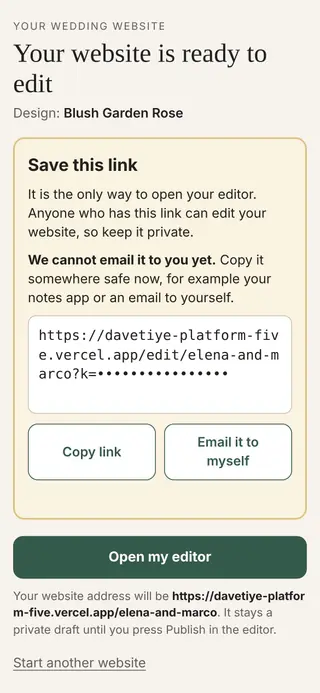
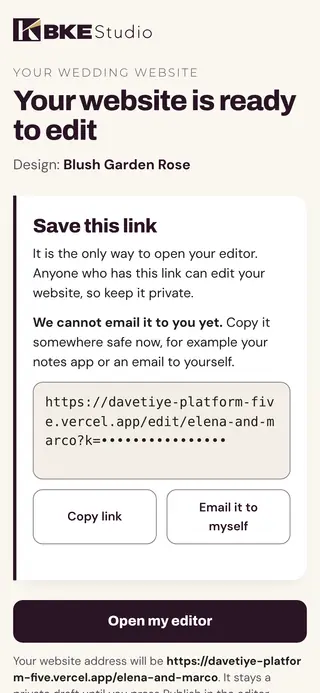
G080: marketing-assets panel görsellerini yerel paneldan çekiyor (--panel); start/editLink yeni /start görünümüyle
- scripts/marketing-assets.ts: panel ekranları artık G059 JPG'lerinden değil, bu checkout'un build'inin yerel
  next start'ından (tohumlanmış 03 demo + kurgusal alıcı); Guests toplamları DEMO_REPLY_TOTALS'tan farklıysa durur;
  --designs / --panel kısmi koşu; --check aynı
- Yalnız anlamlı değişenler işlendi: start ve editLink (BKE /start); diğer 6 panel görseli aynı kaldı
- assets.json: yalnız note satırı (ölçüler aynı)

Claude-Session: https://claude.ai/code/session_01DggDrVhqkPM3r57J4JpXEN

diff --git a/platform/scripts/marketing-assets.ts b/platform/scripts/marketing-assets.ts
@@ -1,21 +1,37 @@
 // Marketing site images and videos from REAL product captures (G061, docs/14 §9.6, §12.4). No drawing, no generated
-// screens: every image is a resize of a real theme / panel screenshot (collections/<NN>/package/shots, G059 capture,
-// 390 px at DPR 3, fictional demo content) and every video is a cut of the real opening recording (opening.webm).
+// screens: every image is a resize of a real theme / panel screenshot (390 × 844 at DPR 3, fictional demo content) and
+// every video is a cut of the real opening recording (opening.webm).
 //
-//   node scripts/marketing-assets.ts            # writes public/marketing/{designs,panel}/ + lib/marketing/assets.json
-//   node scripts/marketing-assets.ts --check    # only verifies that assets.json matches the files (exit 1 if not)
+//   node scripts/marketing-assets.ts               # designs + panel; writes public/marketing/{designs,panel}/ + lib/marketing/assets.json
+//   node scripts/marketing-assets.ts --designs     # only the design screens and opening videos
+//   NODE_PATH=/opt/node22/lib/node_modules node scripts/marketing-assets.ts --panel [--public-url <url>]
+//                                                  # only the panel screens (needs `npm run build` + Playwright)
+//   node scripts/marketing-assets.ts --check       # only verifies that assets.json matches the files (exit 1 if not)
 //
-// Needs sharp (dependency) and ffmpeg on PATH (videos). Outputs are deterministic for the same inputs; re-run after a
-// new capture (e.g. panel screens after G060). GPT scene images (docs/14 §12, public/marketing/gpt/) are composed by
-// a later step once they exist — this script does not touch them.
+// Sources:
+//   - designs: the G059 capture of each live design, collections/<NN>/package/shots/*.jpg + opening.webm.
+//   - panel (G080): captured from the CURRENT code — a local `next start` of this checkout's build on a temporary data
+//     folder (local adapter; nothing deployed, nothing sent to the live site). The design-03 demo is seeded as a
+//     published site (Clara & Julian, sample photos, a "Meal choice" question, five fictional replies); a fictional buyer
+//     (Elena & Marco) starts a site on /start. Screens: /start form, the "Save this link" screen (key masked), panel Home,
+//     photo crop, preview, Share (QR blurred: it would point at a site that only exists in this run), Guests (totals must
+//     equal facts.ts DEMO_REPLY_TOTALS, else the run fails), RSVP questions. G061–G066 took the panel screens from the
+//     G059 JPGs, which show the panel of their day: a full run brought back an old panel (G066-B note).
+//   PLATFORM_PUBLIC_URL = --public-url (default: the live vercel.app address, as in G059) so addresses read like real ones.
+//
+// Needs sharp (dependency) and ffmpeg on PATH (videos). Design outputs are deterministic for the same inputs; panel
+// screens show the day they are taken ("Replies close in N days", the preview's countdown). GPT scene images
+// (docs/14 §12, public/marketing/gpt/) are composed by a later step once they exist — this script does not touch them.
 
-import { execFileSync } from 'node:child_process';
-import { existsSync, mkdirSync, readFileSync, statSync, writeFileSync } from 'node:fs';
+import { execFileSync, spawnSync } from 'node:child_process';
+import { existsSync, mkdirSync, mkdtempSync, readFileSync, rmSync, statSync, writeFileSync } from 'node:fs';
 import { createRequire } from 'node:module';
+import os from 'node:os';
 import path from 'node:path';
 import { fileURLToPath } from 'node:url';
 import { MARKETING } from '../lib/marketing/config.ts';
-import { DESIGN_COPY, PANEL_COLLECTION, PANEL_SOURCES, SCREEN_SOURCES } from '../lib/marketing/designs.ts';
+import { DESIGN_COPY, PANEL_SOURCES, SCREEN_SOURCES, type PanelKey } from '../lib/marketing/designs.ts';
+import { DEMO_REPLY_TOTALS } from '../lib/marketing/facts.ts';
 
 const ROOT = path.resolve(path.dirname(fileURLToPath(import.meta.url)), '..');
 const REPO = path.resolve(ROOT, '..');
@@ -29,6 +45,9 @@ const WEBP_QUALITY = 74;
 /** Opening clip: from the recording's lead-in (opening.json) for CLIP_SECONDS — envelope closed → home page. */
 const CLIP_SECONDS = 10;
 const VIDEO_MAX_BYTES = 1_500_000;
+
+export const MANIFEST_NOTE =
+  'Generated by scripts/marketing-assets.ts from real captures (designs: collections/<NN>/package/shots; panel: a local run of the current panel). Do not edit by hand.';
 
 export interface ScreenAsset {
   /** Intrinsic size of the largest file. */
@@ -53,7 +72,8 @@ export interface AssetManifest {
 
 const rel = (abs: string) => '/' + path.relative(PUBLIC, abs).split(path.sep).join('/');
 
-async function screen(sharp: any, src: string, outDir: string, key: string): Promise<ScreenAsset> {
+/** `src`: an image file or the bytes of a screenshot. */
+async function screen(sharp: any, src: string | Buffer, outDir: string, key: string): Promise<ScreenAsset> {
   mkdirSync(outDir, { recursive: true });
   const meta = await sharp(src).metadata();
   const files: Record<string, string> = {};
@@ -66,7 +86,7 @@ async function screen(sharp: any, src: string, outDir: string, key: string): Pro
     width = info.width;
     height = info.height;
   }
-  if (!meta.width || !meta.height) throw new Error(`no size: ${src}`);
+  if (!meta.width || !meta.height) throw new Error(`no size: ${typeof src === 'string' ? src : `${key} capture`}`);
   return { width, height, files };
 }
 
@@ -127,22 +147,8 @@ export function checkManifest(manifest: AssetManifest, publicDir = PUBLIC): stri
   return problems;
 }
 
-async function main(): Promise<void> {
-  if (process.argv.includes('--check')) {
-    const problems = checkManifest(JSON.parse(readFileSync(MANIFEST, 'utf8')));
-    if (problems.length) {
-      console.error(problems.join('\n'));
-      process.exit(1);
-    }
-    console.log('marketing assets: ok');
-    return;
-  }
-  const sharp = require('sharp');
-  const manifest: AssetManifest = {
-    note: 'Generated by scripts/marketing-assets.ts from real captures (collections/<NN>/package/shots). Do not edit by hand.',
-    designs: {},
-    panel: {},
-  };
+async function designAssets(sharp: any): Promise<AssetManifest['designs']> {
+  const designs: AssetManifest['designs'] = {};
   for (const d of MARKETING.designs) {
     const copy = DESIGN_COPY[d.id];
     if (!copy) continue; // 'coming' designs without copy yet
@@ -156,13 +162,229 @@ async function main(): Promise<void> {
     for (const [key, shot] of Object.entries(SCREEN_SOURCES)) {
       screens[key] = await screen(sharp, path.join(shots, `${shot}.jpg`), outDir, key);
     }
-    manifest.designs[d.id] = { screens, opening: opening(shots, outDir) };
-    console.log(`${d.id}: ${Object.keys(screens).length} screens, opening ${manifest.designs[d.id].opening?.bytes ?? 0} bytes`);
+    designs[d.id] = { screens, opening: opening(shots, outDir) };
+    console.log(`${d.id}: ${Object.keys(screens).length} screens, opening ${designs[d.id].opening?.bytes ?? 0} bytes`);
   }
-  const panelShots = path.join(REPO, 'collections', PANEL_COLLECTION, 'package/shots');
-  for (const [key, shot] of Object.entries(PANEL_SOURCES)) {
-    manifest.panel[key] = await screen(sharp, path.join(panelShots, `${shot}.jpg`), path.join(PUBLIC, 'marketing/panel'), key);
+  return designs;
+}
+
+// ---------------------------------------------------------------------------------------------------- panel (G080)
+
+/** The design whose demo and /start the panel screens show (its demo = the fictional Clara & Julian). */
+export const PANEL_THEME = 'blush-garden-rose';
+/** The fictional buyer of the /start → panel screens. */
+const BUYER = { order: '5550012345', email: 'elena.demo@example.test', names: ['Elena', 'Marco'] as const };
+/** Fictional guest replies of the seeded demo (totals 9 coming · 1 not coming · 5 replies = DEMO_REPLY_TOTALS). The
+ *  last one arrives after the couple's last look (the Guests view then shows "1 new reply"). */
+const REPLIES = [
+  { name: 'Olivia Bennett', attending: 'yes', guests: 2, message: 'We would not miss it!', answers: { meal: 'Fish' } },
+  { name: 'Marcus Reed', attending: 'yes', guests: 1, message: '', answers: { meal: 'Vegetarian' } },
+  { name: 'Hannah Clarke', attending: 'no', guests: 0, message: 'So sorry to miss it. Sending love!', answers: {} },
+  { name: 'The Alvarez Family', attending: 'yes', guests: 4, message: 'Counting the days.', answers: { meal: 'Chicken' } },
+  { name: 'Sofia Martin', attending: 'yes', guests: 2, message: '', answers: { meal: 'Fish' } },
+];
+
+function arg(name: string, def: string): string {
+  const i = process.argv.indexOf(`--${name}`);
+  if (i >= 0 && process.argv[i + 1]) return process.argv[i + 1];
+  const eq = process.argv.find((a) => a.startsWith(`--${name}=`));
+  return eq ? eq.slice(name.length + 3) : def;
+}
+
+async function freePort(): Promise<number> {
+  const net = await import('node:net');
+  return new Promise((resolve, reject) => {
+    const s = net.createServer();
+    s.once('error', reject);
+    s.listen(0, '127.0.0.1', () => {
+      const p = (s.address() as { port: number }).port;
+      s.close(() => resolve(p));
+    });
+  });
+}
+
+/** Screens of the current panel, taken from a local `next start` of this checkout's build. */
+async function panelAssets(sharp: any): Promise<AssetManifest['panel']> {
+  if (!existsSync(path.join(ROOT, '.next', 'BUILD_ID'))) throw new Error('panel screens need a production build: run `npm run build` first');
+  const { loadChromium, startNext, waitForServer } = await import('./lib/browser.ts');
+  const { loadThemeEnv, demoSlug } = await import('./lib/theme-env.ts');
+  const publicUrl = arg('public-url', 'https://davetiye-platform-five.vercel.app').replace(/\/+$/, '');
+  const env = loadThemeEnv({ theme: PANEL_THEME });
+  const demo = structuredClone(env.demo);
+  demo.rsvp = { ...demo.rsvp, questions: [{ id: 'meal', label: 'Meal choice', type: 'choice', options: ['Chicken', 'Fish', 'Vegetarian'] }] };
+  const slug = demoSlug(demo);
+  const photo = env.photoFiles.hero_portrait ?? Object.values(env.photoFiles)[0];
+  if (!photo) throw new Error(`no sample photo for ${PANEL_THEME}`);
+
+  const dataDir = mkdtempSync(path.join(os.tmpdir(), 'marketing-panel-'));
+  const out: AssetManifest['panel'] = {};
+  let server: { base: string; stop: () => void } | null = null;
+  let browser: any = null;
+  try {
+    const contentFile = path.join(dataDir, 'demo-content.json');
+    writeFileSync(contentFile, JSON.stringify(demo));
+    const seed = spawnSync(
+      process.execPath,
+      [path.join(ROOT, 'scripts/seed.ts'), '--theme', PANEL_THEME, '--slug', slug, '--content', contentFile, ...(env.photosDir ? ['--photos', env.photosDir] : ['--no-photos'])],
+      { cwd: ROOT, env: { ...process.env, PLATFORM_DATA_DIR: dataDir, DATA_ADAPTER: 'local', PLATFORM_PUBLIC_URL: publicUrl }, encoding: 'utf8' },
+    );
+    if (seed.status !== 0) throw new Error(`seed failed:\n${seed.stdout}\n${seed.stderr}`);
+    const demoKey: string = JSON.parse(readFileSync(path.join(dataDir, 'seed-keys.json'), 'utf8')).editKey;
+
+    const port = Number(process.env.PORT) || (await freePort());
+    // No VERCEL_ENV / THEME_APPROVAL: the panel theme is approved anyway; a local run is never "production".
+    const srv = startNext({ port, dataDir, env: { DATA_ADAPTER: 'local', PLATFORM_PUBLIC_URL: publicUrl, VERCEL_ENV: '', THEME_APPROVAL: '' } });
+    server = srv;
+    await waitForServer(`${srv.base}/signin`, 40_000, srv as any);
+    const base = srv.base;
+
+    // fictional guest replies through the public RSVP API (like a guest's phone); the couple last looked before the fifth
+    let seenAt = '';
+    for (const [i, r] of REPLIES.entries()) {
+      if (i === REPLIES.length - 1) {
+        seenAt = new Date().toISOString();
+        await new Promise((res) => setTimeout(res, 60));
+      }
+      const res = await fetch(`${base}/api/rsvp/${slug}`, {
+        method: 'POST',
+        headers: { 'content-type': 'application/json', 'x-forwarded-for': `198.51.100.${i + 10}` },
+        body: JSON.stringify({ ...r, email: '', website: '' }),
+      });
+      if (res.status !== 200) throw new Error(`reply "${r.name}": ${res.status} ${await res.text()}`);
+    }
+
+    browser = await loadChromium().launch({ args: ['--disable-dev-shm-usage'] });
+    const device = { viewport: { width: 390, height: 844 }, deviceScaleFactor: 3, isMobile: true, hasTouch: true };
+    const pause = (page: any, ms: number) => page.waitForTimeout(ms);
+    const take = async (page: any, key: PanelKey) => {
+      await page.evaluate(() => document.fonts.ready);
+      await pause(page, 400);
+      out[key] = await screen(sharp, await page.screenshot({ type: 'png' }), path.join(PUBLIC, 'marketing/panel'), key);
+      console.log(`panel: ${key}`);
+    };
+    const scrollTo = (page: any, sel: string, block: 'start' | 'end', offset: number) =>
+      page.evaluate(
+        ({ s, b, o }: { s: string; b: string; o: number }) => {
+          const r = document.querySelector(s)!.getBoundingClientRect();
+          const top = b === 'end' ? r.bottom + scrollY - innerHeight + o : r.top + scrollY - o;
+          window.scrollTo({ top: Math.max(0, top), behavior: 'instant' });
+        },
+        { s: sel, b: block, o: offset },
+      );
+
+    // ---- buyer: /start → "Save this link" → panel Home → crop → preview
+    {
+      const ctx = await browser.newContext(device);
+      ctx.setDefaultTimeout(15_000);
+      const page = await ctx.newPage();
+      await page.goto(`${base}/start?theme=${PANEL_THEME}`, { waitUntil: 'networkidle' });
+      await page.frameLocator('iframe').locator('body').waitFor();
+      await page.fill('#start-order', BUYER.order);
+      await page.fill('#start-email', BUYER.email);
+      await page.fill('#start-name1', BUYER.names[0]);
+      if (await page.locator('#start-name2').count()) await page.fill('#start-name2', BUYER.names[1]);
+      await page.waitForSelector('[data-slug-available]');
+      await page.evaluate(() => (document.activeElement as HTMLElement | null)?.blur()); // no focus ring in the picture
+      await scrollTo(page, 'form button[type="submit"]', 'end', 96); // the filled form down to "Create my website"
+      await take(page, 'start');
+      await page.click('form button[type="submit"]');
+      await page.waitForSelector('[data-edit-link]');
+      const editUrl: string = await page.inputValue('[data-edit-link]');
+      if (!editUrl.startsWith(`${publicUrl}/edit/`)) throw new Error(`edit link does not use the public URL: ${editUrl.replace(/k=.*/, 'k=…')}`);
+      await page.evaluate(() => {
+        const el = document.querySelector('[data-edit-link]') as HTMLTextAreaElement;
+        el.value = el.value.replace(/k=[A-Za-z0-9_-]+/, 'k=••••••••••••••••'); // the private key, masked in the picture only
+        (document.activeElement as HTMLElement | null)?.blur();
+        window.scrollTo({ top: 0, behavior: 'instant' });
+      });
+      await take(page, 'editLink');
+      const local = editUrl.replace(publicUrl, base).replace(/#.*$/, '');
+      await page.goto(`${local}#home`, { waitUntil: 'load' });
+      await page.waitForSelector('[data-status-card]');
+      await pause(page, 800);
+      await take(page, 'panel');
+      await page.goto(`${local}#edit/photos`, { waitUntil: 'load' });
+      await page.setInputFiles('input[data-slot="hero_portrait"]', photo);
+      await page.waitForSelector('[data-testid="cropper"] img');
+      await pause(page, 900);
+      await take(page, 'crop');
+      await page.click('[data-crop-confirm]');
+      await page.waitForSelector('[data-photo-slot="hero_portrait"] img', { timeout: 25_000 });
+      await page.waitForFunction(() => document.querySelector('[data-save-state]')?.getAttribute('data-save-state') === 'saved', null, { timeout: 15_000 });
+      await page.goto(`${local}#home`, { waitUntil: 'load' });
+      await page.waitForSelector('[data-status-card]');
+      await page.click('[data-open-preview]');
+      const home = page.getByRole('tab', { name: 'Home', exact: true });
+      await home.waitFor();
+      if ((await home.getAttribute('aria-selected')) !== 'true') await home.click();
+      await page.frameLocator('[data-preview] iframe').locator('body').waitFor();
+      await pause(page, 4500); // the theme's entrance on its home page
+      await take(page, 'preview');
+      await ctx.close();
+    }
+
+    // ---- the couple of the seeded (published) demo: Share, Guests, RSVP questions
+    {
+      const ctx = await browser.newContext(device);
+      ctx.setDefaultTimeout(15_000);
+      await ctx.addInitScript(({ key, at }: { key: string; at: string }) => {
+        try {
+          if (!window.localStorage.getItem(key)) window.localStorage.setItem(key, at);
+        } catch {
+          /* no storage: every reply shows as new */
+        }
+      }, { key: `seen:${slug}`, at: seenAt });
+      const page = await ctx.newPage();
+      const L = `${base}/edit/${slug}?k=${demoKey}`;
+      await page.goto(`${L}#share`, { waitUntil: 'load' });
+      await page.waitForSelector('[data-share-qr] svg[role="img"]');
+      // the QR would open a site that only exists in this local run: blurred in the picture
+      await page.evaluate(() => ((document.querySelector('[data-share-qr] svg[role="img"]') as SVGElement).style.filter = 'blur(7px)'));
+      await take(page, 'share');
+      await page.goto(`${L}#guests`, { waitUntil: 'load' });
+      await page.waitForSelector('[data-reply]');
+      await pause(page, 600);
+      const text: string = await page.locator('main').innerText();
+      const want = DEMO_REPLY_TOTALS;
+      const totals = new RegExp(`${want.coming}\\s*Guests coming[\\s\\S]*${want.notComing}\\s*Not coming[\\s\\S]*${want.replies}\\s*Replies`);
+      if (!totals.test(text)) throw new Error(`Guests totals differ from facts.ts DEMO_REPLY_TOTALS: ${text.slice(0, 160).replace(/\s+/g, ' ')}`);
+      await take(page, 'replies');
+      await page.goto(`${L}#edit/rsvp`, { waitUntil: 'load' });
+      await page.waitForSelector('[data-rsvp-questions]');
+      await pause(page, 500);
+      await scrollTo(page, '[data-rsvp-questions]', 'start', 76);
+      await take(page, 'questions');
+      await ctx.close();
+    }
+  } finally {
+    if (browser) await browser.close();
+    server?.stop();
+    rmSync(dataDir, { recursive: true, force: true });
   }
+  const missing = (Object.keys(PANEL_SOURCES) as PanelKey[]).filter((k) => !out[k]);
+  if (missing.length) throw new Error(`panel screens not taken: ${missing.join(', ')}`);
+  return out;
+}
+
+async function main(): Promise<void> {
+  if (process.argv.includes('--check')) {
+    const problems = checkManifest(JSON.parse(readFileSync(MANIFEST, 'utf8')));
+    if (problems.length) {
+      console.error(problems.join('\n'));
+      process.exit(1);
+    }
+    console.log('marketing assets: ok');
+    return;
+  }
+  const onlyDesigns = process.argv.includes('--designs');
+  const onlyPanel = process.argv.includes('--panel');
+  const sharp = require('sharp');
+  const previous: AssetManifest | null = existsSync(MANIFEST) ? JSON.parse(readFileSync(MANIFEST, 'utf8')) : null;
+  const manifest: AssetManifest = {
+    note: MANIFEST_NOTE,
+    designs: onlyPanel && previous ? previous.designs : await designAssets(sharp),
+    panel: onlyDesigns && previous ? previous.panel : await panelAssets(sharp),
+  };
   const problems = checkManifest(manifest);
   if (problems.length) throw new Error(problems.join('\n'));
   writeFileSync(MANIFEST, JSON.stringify(manifest, null, 2) + '\n');
